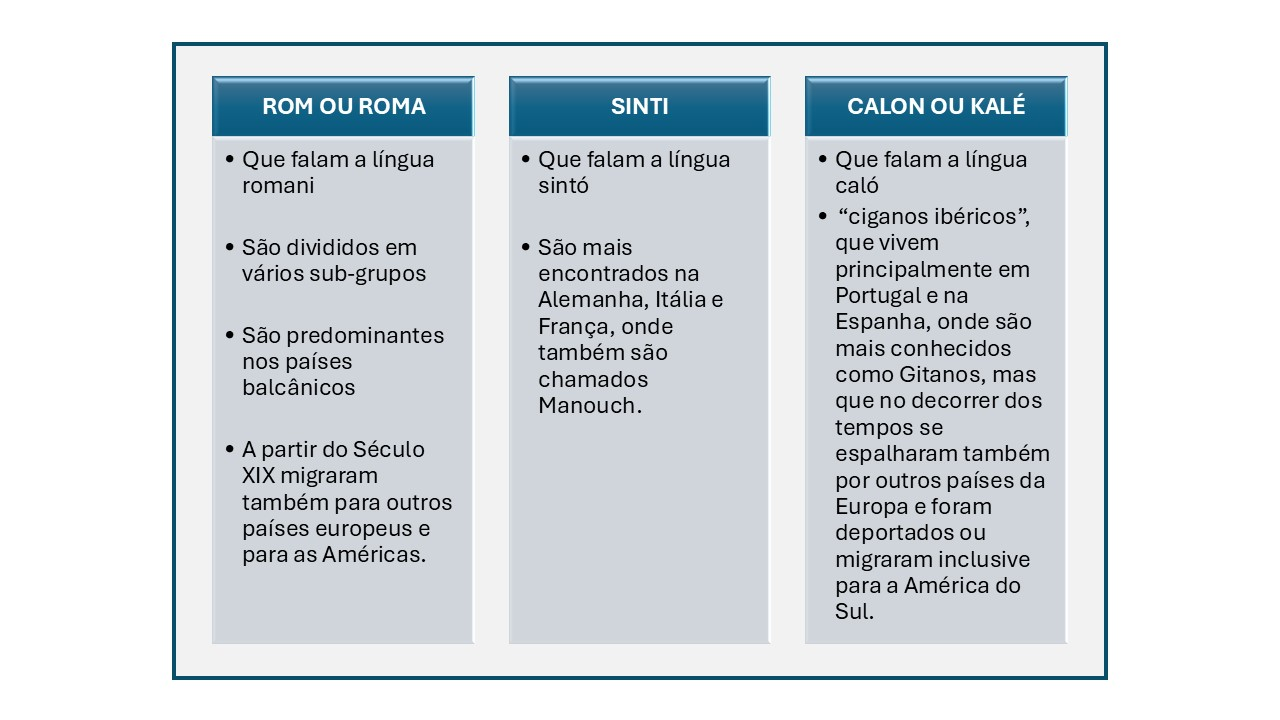
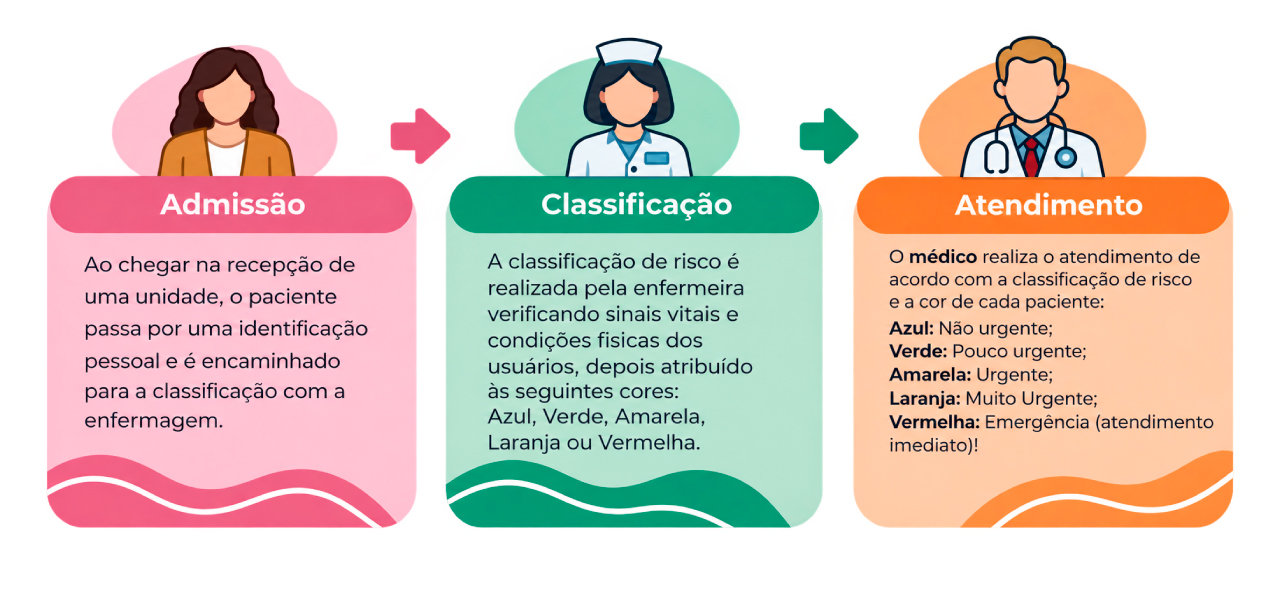
ajustes

diff --git a/modulo2/aula3.html b/modulo2/aula3.html
@@ -199,7 +199,7 @@
                                             </div>
                                         </div>
                                     </div>
-                                    <p class="figure-caption text-center">Fonte: <a href="https://redehumanizasus.net/95602-acolhimento-no-sus/" target="_blank" rel="noopener noreferrer">Rede HumanizaSUS</a>.</p>
+                                    <p class="figure-caption text-center mt-3">Fonte: <a href="https://redehumanizasus.net/95602-acolhimento-no-sus/" target="_blank" rel="noopener noreferrer">Rede HumanizaSUS</a>.</p>
                                 </div>
                             </div>
                             <div class="row justify-content-center">
@@ -265,7 +265,7 @@
                             <div class="row justify-content-center">
                                 <div class="col-12 col-md-10 col-lg-8 mb-5">
                                     <figure class="aos-init aos-animate" data-aos="fade-up" data-aos-easing="ease-out" data-aos-duration="600">
-                                        <img class="lightbox img-fluid mx-auto d-block mb-3" src="../media/images/modulo2/aula3-img1.jpeg" alt="Infográfico do protocolo de acolhimento com classificação de risco: admissão na unidade, avaliação e classificação pela enfermagem e atendimento médico conforme prioridade." title="Fonte: Rede HumanizaSUS" />
+                                        <img class="lightbox img-fluid mx-auto d-block mb-3" src="../media/images/modulo2/aula3-img1.jpg" alt="Infográfico do protocolo de acolhimento com classificação de risco: admissão na unidade, avaliação e classificação pela enfermagem e atendimento médico conforme prioridade." title="Fonte: Rede HumanizaSUS" />
                                         <figcaption class="figure-caption">Como funciona o protocolo de acolhimento com classificação de risco.</figcaption>
                                         <figcaption class="figure-caption fonte">Fonte: <a href="https://redehumanizasus.net/94797-acolhimento-com-classificacao-de-risco/" target="_blank" rel="noopener noreferrer">Rede HumanizaSUS</a>.</figcaption>
                                     </figure>
